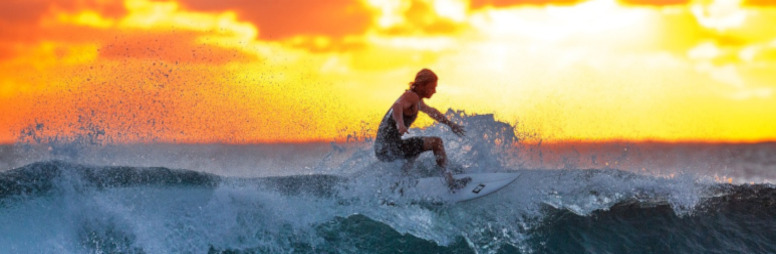
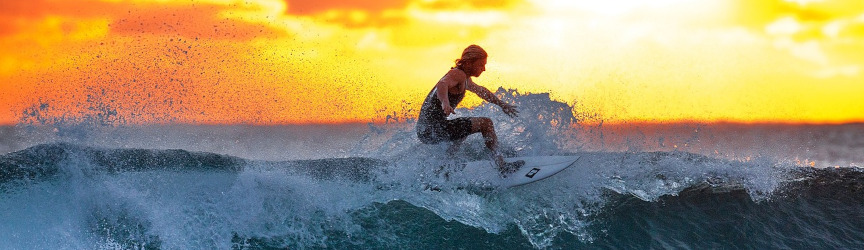
gettin there

diff --git a/assets/css/style.css b/assets/css/style.css
@@ -48,7 +48,7 @@ hr {
     width: 14px;
     height: 14px;
     border-radius: 50%;
-    background: #eee;
+    background: #777;
     margin: 0 0.4em;
   }
   
@@ -58,7 +58,7 @@ hr {
     width: 14px;
     height: 14px;
     border-radius: 50%;
-    background: #eee;
+    background: #777;
     margin: 0 0.4em;
   }
 
@@ -108,12 +108,14 @@ section {
     padding: 20px 5%;
     display:flex;
     flex-direction: column;
+    align-items: start;
 }
 
 section h1 {
-    text-align: right;
     padding-right: 10px;
     border-bottom: 30px solid var(--site-orange);
+    font-family: 'Roboto Slab', 'Times New Roman', Times, serif;
+    font-size: 1.5rem;
 }
 
 /* ABOUT ME */
@@ -161,26 +163,28 @@ section h1 {
 
 #work-content {
     flex: 4;
-    display: flex;
-    flex-direction: column;
+    display: grid;
+    grid-template-columns: 1fr;
+    /* flex-direction: column;
     justify-content: center;
-    align-items: center;
+    align-items: center; */
     padding: 2%;
-    margin-left: 17%;
+    /* margin-left: 17%; */
     margin-top: 2%;
 }
 
 .surf-report {
     height: 100%;
     width: 100%;
+    position: relative;
+    display: grid;
+    grid-template-columns: 1fr;
+    
 }
 
 .surf-report img {
-    position: relative;
-    height: 60%;
-    width: 80%;
-    object-fit: cover;
-    object-position: 20% 45%;
+    width: 100%;
+    height: 100%;
     opacity: .5;
 }
 
@@ -188,10 +192,10 @@ section h1 {
     opacity: .9;
 }
 
-.work-project-title {
+.surf-report-title {
     position: absolute;
-    bottom: 26%;
-    left: 37%;
+    bottom: 6%;
+    left: 1%;
     background-color: #777;
     border: 2px solid black;
     padding: .5%;
@@ -199,7 +203,82 @@ section h1 {
     font-size: .8rem;
 }
 
-.work-project-title h3 {
+.surf-report-title h3 {
+    color: #fff;
+    font-size: 1.1rem;
+    font-weight: bold;
+}
+
+.led-wall {
+    position: relative;
+    width: 100%;
+    height: 100%;
+    flex: 1;
+    display: grid;
+    grid-template-columns: 1fr;
+}
+
+.led-wall img {
+    height: 250px;
+    width: 250px;
+    object-fit: cover;
+    object-position: center center;
+    opacity: .5;
+}
+
+.led-wall img:hover {
+    opacity: 1;
+}
+
+.led-wall-title {
+    position: absolute;
+    bottom: 7%;
+    left: 1%;
+    background-color: #777;
+    border: 2px solid black;
+    padding: .5%;
+    text-align: center;
+    font-size: .8rem;
+}
+
+.led-wall-title h3 {
+    color: #fff;
+    font-size: 1.1rem;
+    font-weight: bold;
+}
+
+.calculator {
+    position: relative;
+    width: 100%;
+    height: 100%;
+    flex: 1;
+    display: inline;
+}
+
+.calculator img {
+    height: 250px;
+    width: 250px;
+    object-fit: cover;
+    object-position: center center;
+    opacity: .5;
+}
+
+.calculator img:hover {
+    opacity: 1;
+}
+
+.calculator-title {
+    position: absolute;
+    bottom: 7%;
+    left: 1%;
+    background-color: #777;
+    border: 2px solid black;
+    padding: .5%;
+    text-align: center;
+    font-size: .8rem;
+}
+
+.calculator-title h3 {
     color: #fff;
     font-size: 1.1rem;
     font-weight: bold;

diff --git a/index.html b/index.html
@@ -23,21 +23,32 @@
     
     <main>
         <section id="aboutme">
-            <div class="section-title"><h1>About Me</h1></div>
+            <div class="section-title">
+            <h1>About Me</h1>
+            </div>
             <div id="aboutme-content">
                 <div class="avatar"></div>
                 <div class="aboutme-text">Eric is a customer-facing full stack web developer with a background in technical account management and customer success, specializing in SaaS pre/post-sales, implementation, onboarding, support, and value-add services.</div>
+                <hr />
             </div>
         </section>
-        <hr />
         <section id="work">
-            <div class="section-title"><h1>Work</h1></div>
+            <div class="section-title">
+            <h1>Work</h1>
+        </div>
             <div id="work-content">
                 <div class="surf-report">
-                <a href="#"><img src="assets/images/surfing-gdfe5085a3_1280.jpg" /></a>
-                <div class="work-project-title"><h3>Surf Report</h3>MERN Stack</div>
+                <a href="#"><img src="assets/images/surf.jpg" alt="Surf Report" /></a>
+                <div class="surf-report-title"><h3>Surf Report</h3>MERN Stack</div>
                 </div>
-                
+                <div class="led-wall">
+                    <a href="#"><img src="assets/images/led_crop.jpg" alt="LED Wall" /></a>
+                    <div class="led-wall-title"><h3>LED Wall</h3>Node/IoT</div>
+                </div>
+                <div class="calculator">
+                    <a href="#"><img src="assets/images/calc_crop.jpg" alt="Calculator" ></a>
+                    <div class="calculator-title"><h3>Calculator</h3>React/Javascript/CSS</div>
+                </div>
         </section>
     </main>
 
